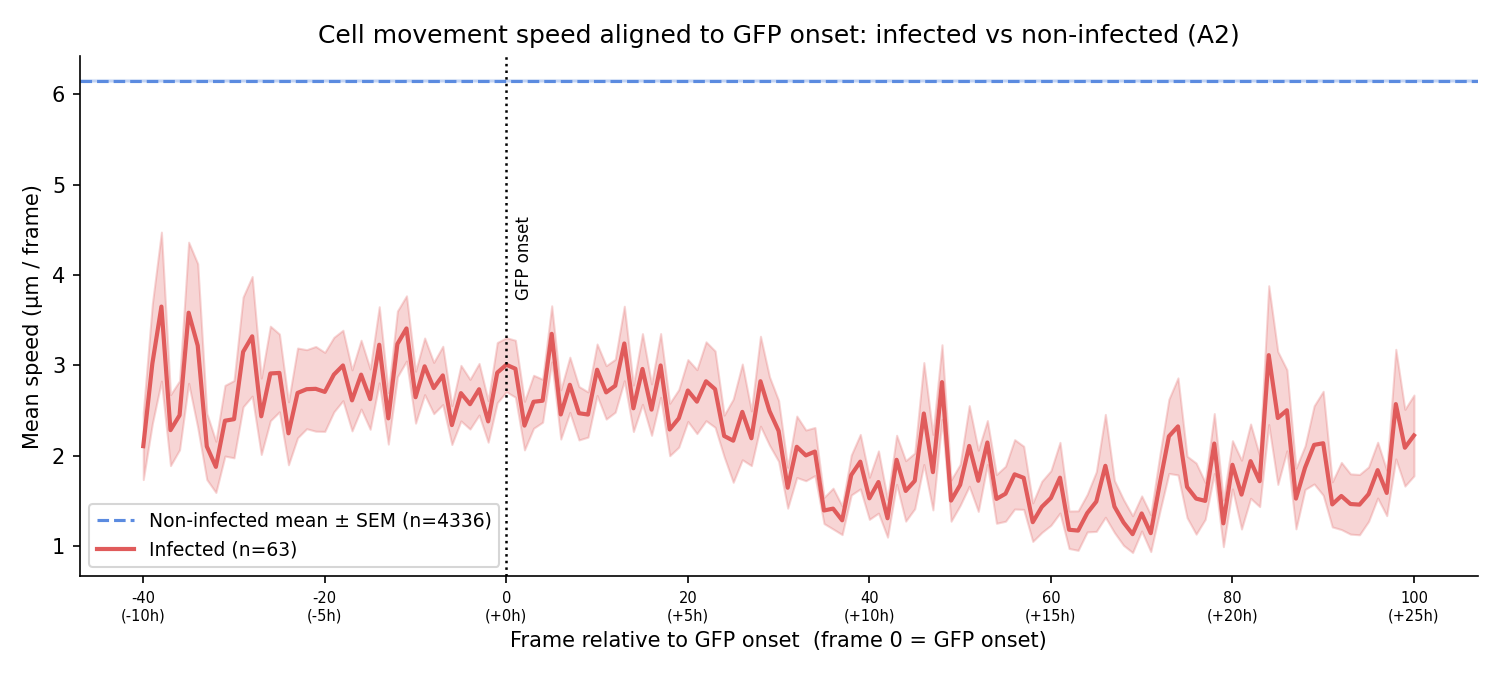
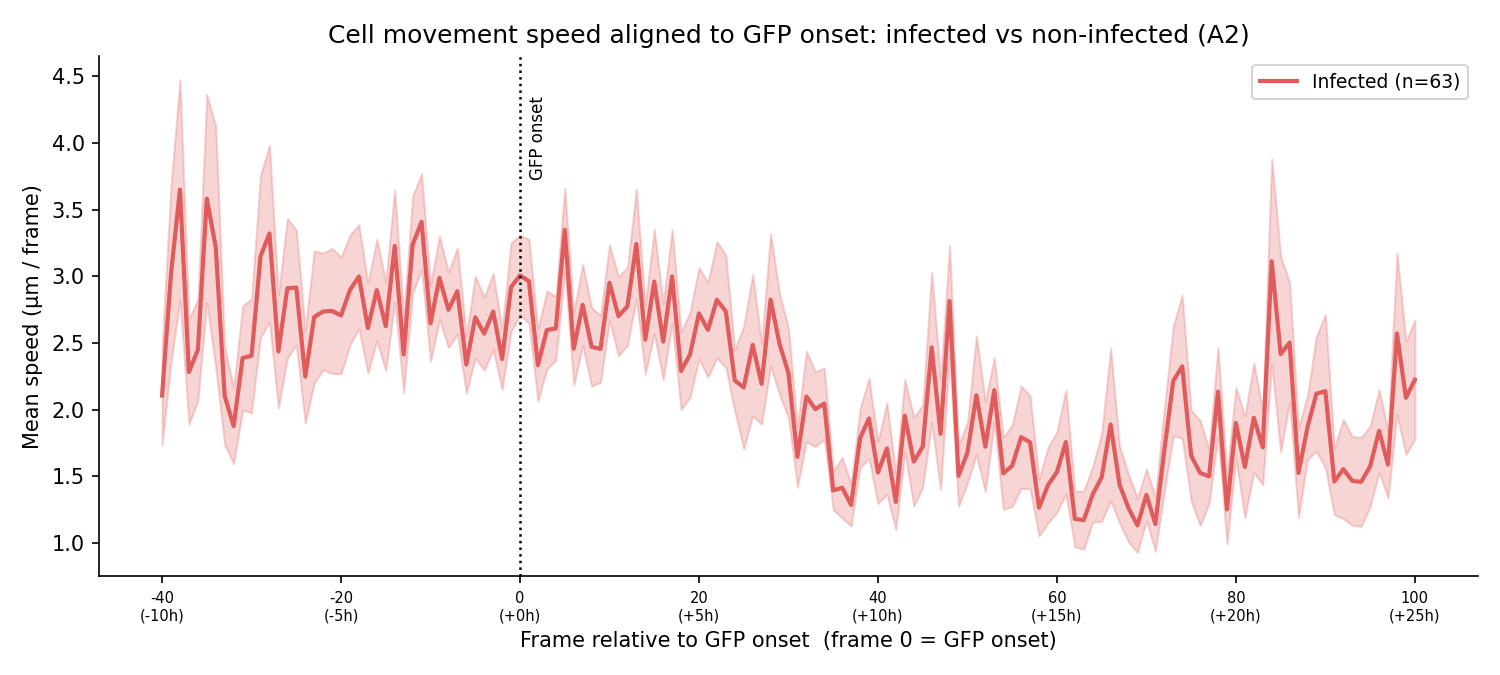
Presenting productive and non productive cells at early and late frames

diff --git a/barrier_analysis/bf_crops_frame1_frame55.py b/barrier_analysis/bf_crops_frame1_frame55.py
@@ -1,0 +1,199 @@
+#!/usr/bin/env python3
+"""
+bf_crops_frame1_frame55.py
+
+Plot brightfield crops of 10 random productive and 10 random nonproductive
+cells at their 1st and 55th tracked BF frame.
+
+Output: bf_crops_frame1_frame55.png in this folder
+"""
+
+from pathlib import Path
+import numpy as np
+import pandas as pd
+import tifffile
+import matplotlib
+matplotlib.use('Agg')
+import matplotlib.pyplot as plt
+
+LIVEIMG   = Path('/home/labs/ginossar/talfis/LiveImaging')
+BARRIER   = Path('/home/labs/ginossar/talfis/LiveImaging/barrier_analysis')
+BF_EMBED  = LIVEIMG / 'BrightFieldEmbedding'
+CACHE     = LIVEIMG / 'cache' / 'python_export'
+
+BF_TIFF   = LIVEIMG / 'CompleteImage' / 'A2_BrightField_raw.tif'
+ALLSPOTS  = LIVEIMG / 'CompleteImage' / 'A2_BrightField_allspots.csv'
+MATCHES   = BF_EMBED / 'bf_gfp_matches.csv'
+MODEL_DF  = CACHE / 'model_df.csv'
+
+PIXEL_SCALE = 0.2871   # µm / px
+CROP_SIZE   = 256
+HALF        = CROP_SIZE // 2
+N_CELLS     = 10
+FRAME_A     = 1    # 1st frame of cell track (1-indexed)
+FRAME_B     = 55   # 55th frame of cell track
+RANDOM_SEED = 42
+
+# ── Load cell classifications ─────────────────────────────────────────────────
+print('Loading model_df...', flush=True)
+model_df = pd.read_csv(MODEL_DF)
+model_df = model_df[model_df['dataset'] == 'A2'].copy()
+model_df['gfp_track_id'] = model_df['Track.ID'].str.replace('A2_', '', regex=False).astype(int)
+model_df['productive'] = model_df['delay_green_to_red'].apply(
+    lambda x: False if str(x).strip() in ('Inf', 'NA', '') else np.isfinite(float(x))
+)
+print(f'  A2 cells: {len(model_df)}  productive: {model_df["productive"].sum()}  '
+      f'nonproductive: {(~model_df["productive"]).sum()}', flush=True)
+
+# ── Load BF↔GFP matches ───────────────────────────────────────────────────────
+print('Loading BF↔GFP matches...', flush=True)
+matches = pd.read_csv(MATCHES)
+matches['bf_track_id'] = pd.to_numeric(matches['bf_track_id'], errors='coerce')
+matches = matches[
+    matches['match_tier'].isin({'confident', 'plausible'}) &
+    ~matches['is_ambiguous'].astype(bool) &
+    matches['bf_track_id'].notna()
+].copy()
+matches['bf_track_id'] = matches['bf_track_id'].astype(int)
+matches['gfp_track_id'] = matches['gfp_track_id'].astype(int)
+
+# Merge classification into matches
+merged = matches.merge(model_df[['gfp_track_id', 'productive']], on='gfp_track_id', how='inner')
+print(f'  Cells with BF match + classification: {len(merged)}  '
+      f'productive: {merged["productive"].sum()}  '
+      f'nonproductive: {(~merged["productive"]).sum()}', flush=True)
+
+# ── Load BF allspot positions ─────────────────────────────────────────────────
+print('Loading BF allspot positions...', flush=True)
+chunks = []
+for chunk in pd.read_csv(
+        ALLSPOTS,
+        usecols=['TRACK_ID', 'FRAME', 'POSITION_X', 'POSITION_Y'],
+        low_memory=False, chunksize=200_000):
+    chunk.columns = chunk.columns.str.strip()
+    for col in chunk.columns:
+        chunk[col] = pd.to_numeric(chunk[col], errors='coerce')
+    chunks.append(chunk.dropna(subset=['TRACK_ID', 'FRAME', 'POSITION_X', 'POSITION_Y']))
+bf_all = pd.concat(chunks, ignore_index=True)
+bf_all['TRACK_ID'] = bf_all['TRACK_ID'].astype(int)
+bf_all['FRAME'] = bf_all['FRAME'].astype(int)
+
+# Build dict: bf_track_id → sorted list of (frame, x_um, y_um)
+print('Building per-track frame lists...', flush=True)
+bf_tracks = {}
+for tid, grp in bf_all.sort_values('FRAME').groupby('TRACK_ID'):
+    bf_tracks[int(tid)] = list(zip(grp['FRAME'], grp['POSITION_X'], grp['POSITION_Y']))
+print(f'  BF tracks loaded: {len(bf_tracks)}', flush=True)
+
+def get_frame_pos(bf_tid, rel_frame_1indexed):
+    """Return (abs_frame, cx_px, cy_px) for the nth track frame (1-indexed), or None."""
+    frames = bf_tracks.get(bf_tid)
+    if frames is None or len(frames) < rel_frame_1indexed:
+        return None
+    f, x_um, y_um = frames[rel_frame_1indexed - 1]
+    cx = int(round(x_um / PIXEL_SCALE))
+    cy = int(round(y_um / PIXEL_SCALE))
+    return int(f), cx, cy
+
+# ── Select random qualifying cells ────────────────────────────────────────────
+rng = np.random.default_rng(RANDOM_SEED)
+
+def select_cells(group_df, n, label):
+    candidates = []
+    for _, row in group_df.iterrows():
+        bf_tid = int(row['bf_track_id'])
+        gfp_tid = int(row['gfp_track_id'])
+        pos_a = get_frame_pos(bf_tid, FRAME_A)
+        pos_b = get_frame_pos(bf_tid, FRAME_B)
+        if pos_a is not None and pos_b is not None:
+            candidates.append({'gfp_track_id': gfp_tid, 'bf_track_id': bf_tid,
+                                'pos_a': pos_a, 'pos_b': pos_b})
+    print(f'  {label}: {len(candidates)} cells have ≥{FRAME_B} tracked BF frames', flush=True)
+    n = min(n, len(candidates))
+    idx = rng.choice(len(candidates), size=n, replace=False)
+    return [candidates[i] for i in sorted(idx)]
+
+prod_cells    = select_cells(merged[merged['productive']],  N_CELLS, 'productive')
+nonprod_cells = select_cells(merged[~merged['productive']], N_CELLS, 'nonproductive')
+
+# ── Memmap BF TIFF ────────────────────────────────────────────────────────────
+print(f'Memmapping {BF_TIFF.name}...', flush=True)
+bf_img = tifffile.memmap(str(BF_TIFF))
+T, H, W = bf_img.shape
+print(f'  BF shape: {bf_img.shape}, dtype: {bf_img.dtype}', flush=True)
+
+def get_crop(frame, cx, cy):
+    """256×256 crop centred on (cx, cy), zero-padded at boundaries."""
+    y0, y1 = cy - HALF, cy + HALF
+    x0, x1 = cx - HALF, cx + HALF
+    iy0, iy1 = max(0, y0), min(H, y1)
+    ix0, ix1 = max(0, x0), min(W, x1)
+    patch = bf_img[frame, iy0:iy1, ix0:ix1].astype(np.float32)
+    crop  = np.zeros((CROP_SIZE, CROP_SIZE), dtype=np.float32)
+    crop[iy0 - y0 : iy0 - y0 + (iy1 - iy0),
+         ix0 - x0 : ix0 - x0 + (ix1 - ix0)] = patch
+    return crop
+
+def draw_crop(ax, frame, cx, cy, title=''):
+    crop = get_crop(frame, cx, cy)
+    if crop.max() > crop.min():
+        vmin = np.percentile(crop, 1)
+        vmax = np.percentile(crop, 99)
+    else:
+        vmin, vmax = 0, 1
+    ax.imshow(crop, cmap='gray', vmin=vmin, vmax=vmax, interpolation='nearest')
+    ax.set_title(title, fontsize=6.5, pad=2)
+    ax.axis('off')
+
+# ── Build figure ──────────────────────────────────────────────────────────────
+ncols = max(len(prod_cells), len(nonprod_cells))
+fig, axes = plt.subplots(4, ncols, figsize=(2.0 * ncols, 9),
+                          gridspec_kw={'hspace': 0.05, 'wspace': 0.05})
+
+# Row labels
+row_meta = [
+    (prod_cells,    0, 'frame 1',  'Productive',     '#2ecc71'),
+    (prod_cells,    1, 'frame 55', 'Productive',     '#2ecc71'),
+    (nonprod_cells, 2, 'frame 1',  'Non-productive', '#e74c3c'),
+    (nonprod_cells, 3, 'frame 55', 'Non-productive', '#e74c3c'),
+]
+
+for cells, row_idx, frame_label, group_label, color in row_meta:
+    pos_key = 'pos_a' if frame_label == 'frame 1' else 'pos_b'
+    frame_num = FRAME_A if frame_label == 'frame 1' else FRAME_B
+    for col, cell in enumerate(cells):
+        abs_f, cx, cy = cell[pos_key]
+        draw_crop(axes[row_idx, col], abs_f, cx, cy)
+    # Hide any unused columns
+    for col in range(len(cells), ncols):
+        axes[row_idx, col].axis('off')
+    # Row label on the left using fig.text
+    y_pos = axes[row_idx, 0].get_position().y0 + axes[row_idx, 0].get_position().height / 2
+    fig.text(0.01, y_pos,
+             f'{group_label}\n{frame_label}',
+             ha='left', va='center', fontsize=9, color=color, fontweight='bold',
+             rotation=90, transform=fig.transFigure)
+
+# Column numbers
+for col, cell in enumerate(prod_cells):
+    axes[0, col].set_title(f'cell {col+1}\nGFP {cell["gfp_track_id"]}', fontsize=6.5, pad=2)
+
+for col, cell in enumerate(nonprod_cells):
+    axes[2, col].set_title(f'cell {col+1}\nGFP {cell["gfp_track_id"]}', fontsize=6.5, pad=2)
+
+# Horizontal divider between productive / nonproductive groups
+# (add a thin line between row 1 and row 2)
+y_mid = (axes[1, 0].get_position().y0 + axes[2, 0].get_position().y1) / 2
+fig.add_artist(plt.Line2D([0.06, 0.99], [y_mid, y_mid],
+                           transform=fig.transFigure, color='#aaaaaa', linewidth=0.8))
+
+fig.suptitle(
+    f'Brightfield crops — frame {FRAME_A} vs frame {FRAME_B} of cell BF track\n'
+    f'10 random productive  |  10 random non-productive  (A2 dataset)',
+    fontsize=11, y=0.995
+)
+
+out_path = BARRIER / 'bf_crops_frame1_frame55.png'
+fig.savefig(str(out_path), dpi=150, bbox_inches='tight')
+plt.close(fig)
+print(f'\nSaved: {out_path}')

diff --git a/Brightfield_analysis/04_onset_aligned_speed.py b/Brightfield_analysis/04_onset_aligned_speed.py
@@ -269,12 +269,6 @@ print(f'  Wilcoxon p={p_wilcoxon:.4g}  Mann-Whitney p={p_mw:.4g}')
 # ── Figure 1: onset-aligned speed trace ───────────────────────────────────────
 fig, ax = plt.subplots(figsize=(10, 4.5))
 
-# Non-infected reference band (horizontal)
-ax.axhspan(non_mean - non_sem, non_mean + non_sem,
-           color='#5b8be0', alpha=0.2, zorder=1)
-ax.axhline(non_mean, color='#5b8be0', lw=1.5, linestyle='--',
-           label=f'Non-infected mean ± SEM (n={n_non})', zorder=2)
-
 # Infected onset-aligned trace
 d = inf_ts
 ax.plot(d['t_rel'], d['mean'], color='#e05b5b', lw=2,
